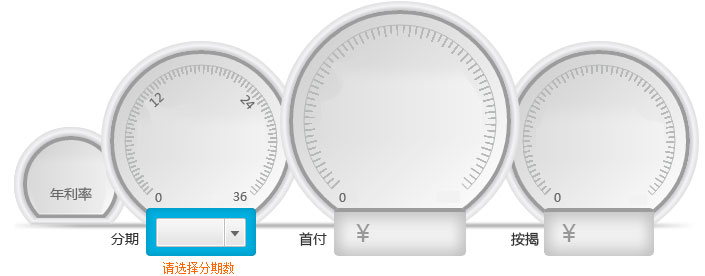
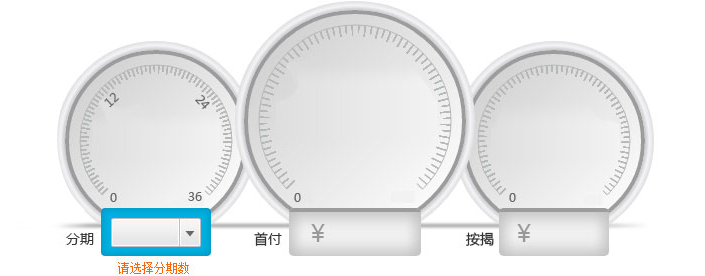
fenqi

Changed region(s): [[0.0, 0.0, 0.9986, 1.0]]

diff --git a/assets/css/detail/detail.less b/assets/css/detail/detail.less
@@ -789,15 +789,15 @@ line-height: 30px;
 #shoucang-popup .result-link:hover{text-decoration: underline;}
 #fenqi-popup{width: 850px;height:540px;top:40px;margin-left: -425px;}
 #fenqi-popup .popup-title{text-indent: 0;width: 805px;}
-#fenqi-popup .result_p{width: 809px;height: 310px;background:url(../../images/fed/fenqi.jpg) no-repeat center #fff;font-family:"\5FAE\8F6F\96C5\9ED1",Tahoma,Verdana;position: relative;}
+#fenqi-popup .result_p{width: 809px;height: 310px;background:url(../../images/fed/fenqi.jpg?1234) no-repeat center #fff;font-family:"\5FAE\8F6F\96C5\9ED1",Tahoma,Verdana;position: relative;}
 #fenqi-popup .fenqi-intro{width: 560px;margin-left: 20px;float:left;color: #666;line-height: 22px;margin-top: 10px;}
 #fenqi-popup .fenqi-yuyue{width: 172px;height: 42px;float: right;margin:48px 20px 0 0;background:url(../../images/fed/detail_sprite_common.png?4) no-repeat 0 -753px;}
 #fenqi-popup .fenqi-yuyue:hover{background-position: 0 -799px}
 #fenqi-popup .apr{position: absolute;top:193px;left:92px;color: #ff6701;font-size: 18px;}
 #fenqi-popup .fenqi-arrow{width:97px;padding-top:83px;position: absolute;top:135px;background-repeat:no-repeat;background-position: center top;text-align: right;color: #666;}
-#fenqi-popup #arrow-time{left:207px;}
-#fenqi-popup #arrow-pay{left:393px;top:114px;width:125px;padding-top:104px;}
-#fenqi-popup #arrow-mortgage{left:600px;}
+#fenqi-popup #arrow-time{left:160px;}
+#fenqi-popup #arrow-pay{left:345px;top:114px;width:125px;padding-top:104px;}
+#fenqi-popup #arrow-mortgage{left:560px;}
 #fenqi-popup .arrow0{background-image: url(../../images/fed/arrow0.png);left: 190px !important;
 top: 145px !important;}
 #fenqi-popup .arrow4{background-image: url(../../images/fed/arrow0.png);left: 587px !important;
@@ -806,14 +806,14 @@ top: 139px !important;}
 #fenqi-popup .arrow2{background-image: url(../../images/fed/arrow2.png);}
 #fenqi-popup .arrow3{background-image: url(../../images/fed/arrow3.png);}
 
-#fenqi-popup .fenqi-time{position: absolute;top:254px;left:208px;}
+#fenqi-popup .fenqi-time{position: absolute;top:254px;left:165px;}
 #fenqi-popup .fenqi-time-wrap{color: #333;font-size: 18px;font-family:"\5FAE\8F6F\96C5\9ED1",Tahoma,Verdana;height: 23px;text-indent: 13px;text-align: left;}
 #fenqi-popup .fenqi-time-select{position: absolute;left:68px;top:-5px;width:21px;height:28px;cursor:pointer;}
 #fenqi-popup .fenqi-time-list{width: 87px;background-color:#fff;border: 1px solid #ccc;border-top: none;display:none;}
 #fenqi-popup .fenqi-time-list li{line-height: 25px;color: #666;border-bottom: 1px solid #eee;cursor:pointer;}
 #fenqi-popup .fenqi-time-list li:hover{background-color: #eee}
-#fenqi-popup .fenqi-pay{position: absolute;top:247px;left:427px;color: #ff6701;font-size: 24px;}
-#fenqi-popup .fenqi-mortgage{position: absolute;top:247px;left:632px;color: #ff6701;font-size: 24px;}
+#fenqi-popup .fenqi-pay{position: absolute;top:247px;left:385px;color: #ff6701;font-size: 24px;}
+#fenqi-popup .fenqi-mortgage{position: absolute;top:247px;left:590px;color: #ff6701;font-size: 24px;}
 
 #onsale_detail #detail_main .detail_photosGallary .photosWrap,#onsale_detail #detail_main .detail_photosGallary .photosWrap li{height:408px;}
 #onsale_detail #detail_main .detail_photosGallary .photoTab{left:0}

diff --git a/assets/css/detail/detail.css b/assets/css/detail/detail.css
@@ -3153,7 +3153,7 @@ body {
 #fenqi-popup .result_p {
   width: 809px;
   height: 310px;
-  background: url(../../images/fed/fenqi.jpg) no-repeat center #ffffff;
+  background: url(../../images/fed/fenqi.jpg?1234) no-repeat center #ffffff;
   font-family: "\5FAE\8F6F\96C5\9ED1", Tahoma, Verdana;
   position: relative;
 }

diff --git a/assets/js/sellcar.js b/assets/js/sellcar.js
@@ -123,7 +123,7 @@ require(['souche/util/action-list'], function(ActionList) {
             ]
         ]
         ActionList(data, function() {})
-    }, 300);
+    }, 500);
     Souche.Util.appear("#sellstep", function() {
         var data = [
             [0,
